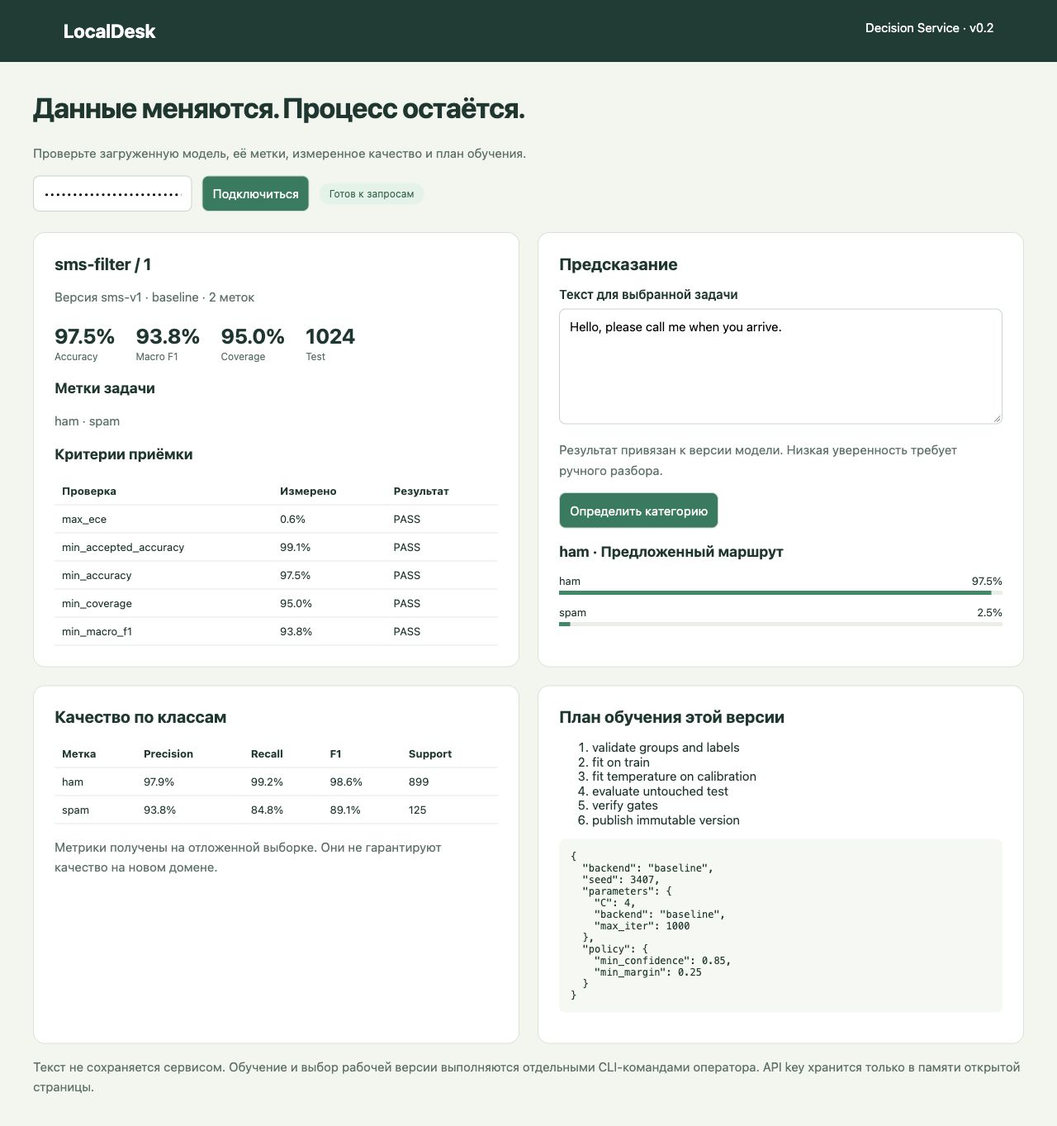
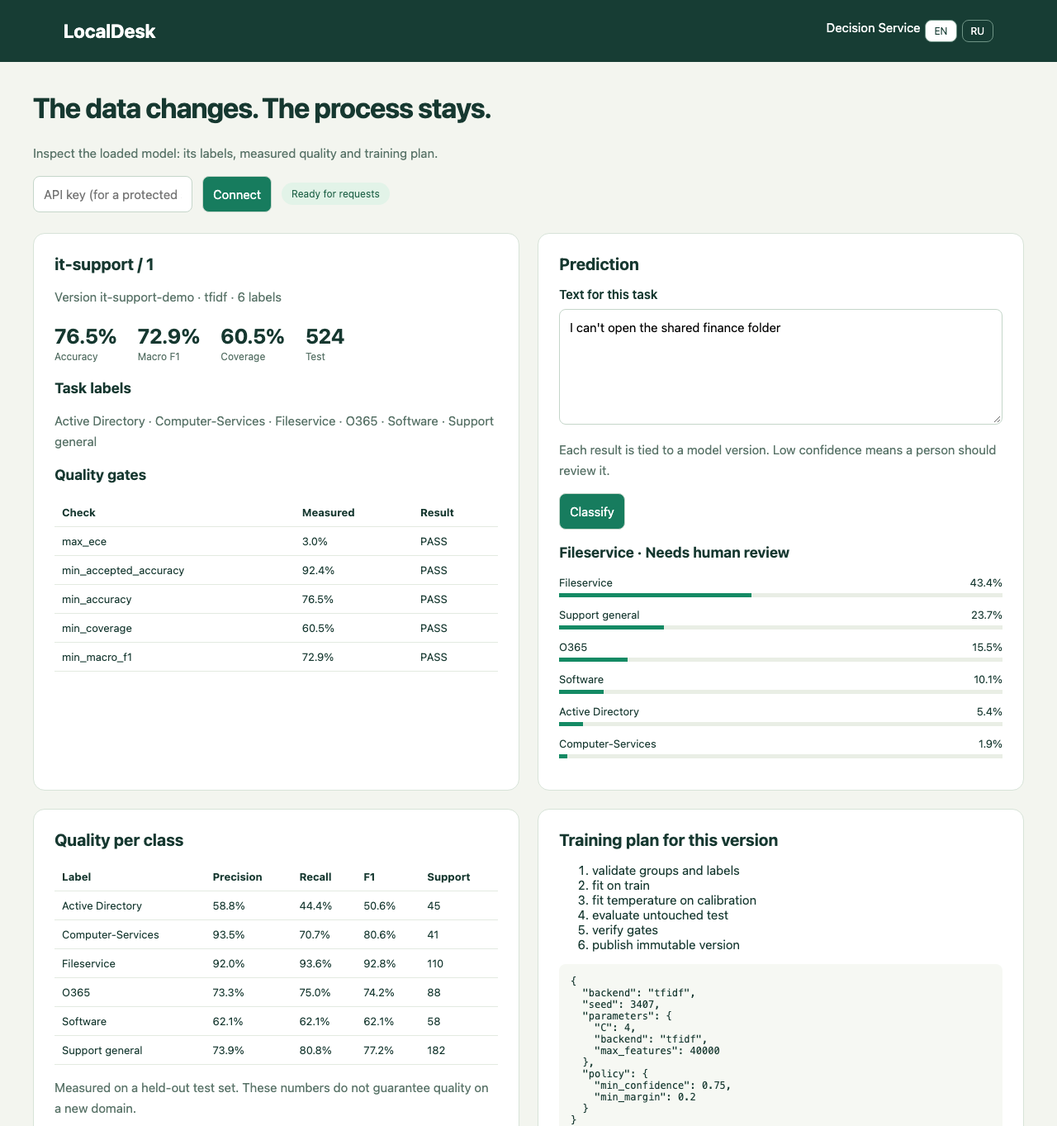
feat: English dashboards with a Russian toggle
Both dashboards default to English and switch to Russian with a button or
?lang=ru; the choice is remembered in the browser, and dynamic content is
re-rendered in the selected language. localdesk serve now ignores query
strings when routing (it returned 404 for /?lang=ru). The README
screenshot shows the English dashboard.

diff --git a/src/localdesk/assets/service.html b/src/localdesk/assets/service.html
@@ -1,7 +1,16 @@
-<!doctype html><html lang="ru"><head><meta charset="utf-8"><meta name="viewport" content="width=device-width,initial-scale=1"><title>LocalDesk · Decision Service</title><style>
-*{box-sizing:border-box}body{margin:0;background:#f3f5ef;color:#163830;font:15px system-ui,sans-serif}header{background:#173d34;color:#fff;padding:24px 6%;display:flex;justify-content:space-between}.brand{font-size:23px;font-weight:700}main{max-width:1250px;margin:35px auto;padding:0 25px}.top{display:flex;gap:12px;align-items:center;flex-wrap:wrap}input,textarea,button{font:inherit;border-radius:8px;border:1px solid #c5d6ca;padding:12px}input{background:#fff}button{background:#177c5e;color:#fff;cursor:pointer}button:disabled{opacity:.5}.grid{display:grid;grid-template-columns:1fr 1fr;gap:22px;margin-top:25px}.card{background:white;border:1px solid #d7e3d8;border-radius:14px;padding:25px}h1{font-size:34px;letter-spacing:-1px}h2{margin-top:0;font-size:20px}textarea{width:100%;height:140px;resize:vertical}.muted{color:#597368;line-height:1.65}.stats{display:flex;gap:25px;flex-wrap:wrap;margin:20px 0}.stat strong{font-size:25px;display:block}.stat span{font-size:12px;color:#597368}.bar{background:#e9eee5;height:5px;margin:5px 0 13px}.bar i{display:block;background:#148a64;height:100%}.row{display:flex;justify-content:space-between;font-size:13px}.error{color:#b0352b;white-space:pre-wrap}pre{white-space:pre-wrap;overflow-wrap:anywhere;font-size:12px;background:#f6f8f3;padding:14px;border-radius:8px}table{border-collapse:collapse;width:100%;font-size:13px}td,th{border-bottom:1px solid #e3eae1;padding:9px;text-align:left}.status{font-size:12px;border-radius:20px;background:#e2f3e8;padding:6px 12px;color:#216349}label{display:block;margin-bottom:9px;font-weight:600}@media(max-width:800px){.grid{grid-template-columns:1fr}h1{font-size:28px}}
-</style></head><body><header><div class="brand">LocalDesk</div><span>Decision Service · v0.2</span></header><main><h1>Данные меняются. Процесс остаётся.</h1><p class="muted">Проверьте загруженную модель, её метки, измеренное качество и план обучения.</p><div class="top"><input id="key" type="password" aria-label="API key" placeholder="API key (для защищённого сервиса)" autocomplete="off"><button id="connect">Подключиться</button><span id="status" class="status">Модель не загружена в интерфейс</span></div><p id="error" class="error" role="alert"></p><div class="grid"><section class="card"><h2 id="task">Модель</h2><div id="identity" class="muted"></div><div id="stats" class="stats"></div><h3>Метки задачи</h3><div id="labels" class="muted"></div><h3>Критерии приёмки</h3><div id="gates"></div></section><section class="card"><h2>Предсказание</h2><label for="text">Текст для выбранной задачи</label><textarea id="text" maxlength="4000" placeholder="Введите сообщение на языке, проверенном вашим датасетом"></textarea><p class="muted">Результат привязан к версии модели. Низкая уверенность требует ручного разбора.</p><button id="predict" disabled>Определить категорию</button><h3 id="choice"></h3><div id="scores"></div></section><section class="card"><h2>Качество по классам</h2><div id="classes"></div><p class="muted">Метрики получены на отложенной выборке. Они не гарантируют качество на новом домене.</p></section><section class="card"><h2>План обучения этой версии</h2><ol id="stages"></ol><pre id="plan">Подключитесь для просмотра плана.</pre></section></div><p class="muted">Текст не сохраняется сервисом. Обучение и выбор рабочей версии выполняются отдельными CLI-командами оператора. API key хранится только в памяти открытой страницы.</p></main><script>
-const $=id=>document.getElementById(id);let token='',loadedVersion=null;async function api(path,options={}){const headers={'X-API-Key':token,...options.headers};const response=await fetch(path,{...options,headers});const value=await response.json();if(!response.ok)throw Error(value.error?.message||'Ошибка API');return value}function put(id,value){$(id).textContent=value}function table(target,headers,rows){const node=document.createElement('table');const head=document.createElement('tr');headers.forEach(value=>{const cell=document.createElement('th');cell.textContent=value;head.append(cell)});node.append(head);rows.forEach(row=>{const tr=document.createElement('tr');row.forEach(value=>{const td=document.createElement('td');td.textContent=String(value);tr.append(td)});node.append(tr)});$(target).replaceChildren(node)}const pct=value=>value===null?'—':(value*100).toFixed(1)+'%';
-$('connect').onclick=async()=>{token=$('key').value;put('error','');try{const [model,report,plan]=await Promise.all([api('/v1/model'),api('/v1/model/report'),api('/v1/model/plan')]);if(report.model_version!==model.model_version||plan.model_version!==model.model_version||report.task_sha256!==model.task_sha256||plan.task_sha256!==model.task_sha256)throw Error('Версия модели изменилась. Подключитесь ещё раз.');loadedVersion=model.model_version;put('task',model.task.id+' / '+model.task.version);put('identity','Версия '+model.model_version+' · '+model.backend+' · '+Object.keys(model.task.labels).length+' меток');put('status','Готов к запросам');put('labels',Object.keys(model.task.labels).join(' · '));$('stats').replaceChildren();[['Accuracy',pct(report.classification.accuracy)],['Macro F1',pct(report.classification.macro_f1)],['Coverage',pct(report.coverage)],['Test',report.count]].forEach(([label,value])=>{const node=document.createElement('div');node.className='stat';const strong=document.createElement('strong');strong.textContent=value;const span=document.createElement('span');span.textContent=label;node.append(strong,span);$('stats').append(node)});table('gates',['Проверка','Измерено','Результат'],Object.entries(model.quality.gates).map(([key,value])=>[key,pct(value.actual),value.passed?'PASS':'FAIL']));table('classes',['Метка','Precision','Recall','F1','Support'],Object.entries(report.classification.per_class).map(([key,v])=>[key,pct(v.precision),pct(v.recall),pct(v.f1),v.support]));$('stages').replaceChildren();plan.stages.forEach(stage=>{const li=document.createElement('li');li.textContent=stage;$('stages').append(li)});put('plan',JSON.stringify({backend:plan.backend,seed:plan.seed,parameters:plan.parameters,policy:plan.policy},null,2));$('predict').disabled=false}catch(exception){put('error',exception.message);$('predict').disabled=true}};
-$('predict').onclick=async()=>{put('error','');try{const value=await api('/v1/predictions',{method:'POST',headers:{'Content-Type':'application/json'},body:JSON.stringify({text:$('text').value})});if(value.model_version!==loadedVersion){$('predict').disabled=true;put('status','Версия изменилась');throw Error('Рабочая модель изменилась. Нажмите Подключиться для обновления метрик.')}put('choice',value.category+' · '+(value.action==='route'?'Предложенный маршрут':'Ручной разбор'));$('scores').replaceChildren();Object.entries(value.probabilities.category).sort((a,b)=>b[1]-a[1]).forEach(([label,score])=>{const row=document.createElement('div');row.className='row';const name=document.createElement('span');name.textContent=label;const percentage=document.createElement('span');percentage.textContent=pct(score);row.append(name,percentage);const bar=document.createElement('div');bar.className='bar';const fill=document.createElement('i');fill.style.width=pct(score);bar.append(fill);$('scores').append(row,bar)})}catch(exception){put('error',exception.message)}};
+<!doctype html><html lang="en"><head><meta charset="utf-8"><meta name="viewport" content="width=device-width,initial-scale=1"><title>LocalDesk · Decision Service</title><style>
+*{box-sizing:border-box}body{margin:0;background:#f3f5ef;color:#163830;font:15px system-ui,sans-serif}header{background:#173d34;color:#fff;padding:24px 6%;display:flex;justify-content:space-between;align-items:center;gap:16px}.lang{display:flex;gap:6px}.lang button{background:transparent;border:1px solid #6f9486;padding:5px 10px;font-size:12px}.lang button[aria-pressed=true]{background:#fff;color:#173d34}.brand{font-size:23px;font-weight:700}main{max-width:1250px;margin:35px auto;padding:0 25px}.top{display:flex;gap:12px;align-items:center;flex-wrap:wrap}input,textarea,button{font:inherit;border-radius:8px;border:1px solid #c5d6ca;padding:12px}input{background:#fff}button{background:#177c5e;color:#fff;cursor:pointer}button:disabled{opacity:.5}.grid{display:grid;grid-template-columns:1fr 1fr;gap:22px;margin-top:25px}.card{background:white;border:1px solid #d7e3d8;border-radius:14px;padding:25px}h1{font-size:34px;letter-spacing:-1px}h2{margin-top:0;font-size:20px}textarea{width:100%;height:140px;resize:vertical}.muted{color:#597368;line-height:1.65}.stats{display:flex;gap:25px;flex-wrap:wrap;margin:20px 0}.stat strong{font-size:25px;display:block}.stat span{font-size:12px;color:#597368}.bar{background:#e9eee5;height:5px;margin:5px 0 13px}.bar i{display:block;background:#148a64;height:100%}.row{display:flex;justify-content:space-between;font-size:13px}.error{color:#b0352b;white-space:pre-wrap}pre{white-space:pre-wrap;overflow-wrap:anywhere;font-size:12px;background:#f6f8f3;padding:14px;border-radius:8px}table{border-collapse:collapse;width:100%;font-size:13px}td,th{border-bottom:1px solid #e3eae1;padding:9px;text-align:left}.status{font-size:12px;border-radius:20px;background:#e2f3e8;padding:6px 12px;color:#216349}label{display:block;margin-bottom:9px;font-weight:600}@media(max-width:800px){.grid{grid-template-columns:1fr}h1{font-size:28px}}
+</style></head><body><header><div class="brand">LocalDesk</div><div class="lang" role="group" aria-label="Language"><span>Decision Service</span><button type="button" data-lang="en">EN</button><button type="button" data-lang="ru">RU</button></div></header><main><h1 data-i18n="headline"></h1><p class="muted" data-i18n="intro"></p><div class="top"><input id="key" type="password" aria-label="API key" data-i18n-placeholder="keyPlaceholder" autocomplete="off"><button id="connect" data-i18n="connect"></button><span id="status" class="status" data-i18n="notLoaded"></span></div><p id="error" class="error" role="alert"></p><div class="grid"><section class="card"><h2 id="task" data-i18n="model"></h2><div id="identity" class="muted"></div><div id="stats" class="stats"></div><h3 data-i18n="labels"></h3><div id="labels" class="muted"></div><h3 data-i18n="gates"></h3><div id="gates"></div></section><section class="card"><h2 data-i18n="prediction"></h2><label for="text" data-i18n="textLabel"></label><textarea id="text" maxlength="4000" data-i18n-placeholder="textPlaceholder"></textarea><p class="muted" data-i18n="predictionNote"></p><button id="predict" disabled data-i18n="predict"></button><h3 id="choice"></h3><div id="scores"></div></section><section class="card"><h2 data-i18n="perClass"></h2><div id="classes"></div><p class="muted" data-i18n="perClassNote"></p></section><section class="card"><h2 data-i18n="plan"></h2><ol id="stages"></ol><pre id="plan" data-i18n="planEmpty"></pre></section></div><p class="muted" data-i18n="footer"></p></main><script>
+const TEXT={en:{headline:'The data changes. The process stays.',intro:'Inspect the loaded model: its labels, measured quality and training plan.',keyPlaceholder:'API key (for a protected service)',connect:'Connect',notLoaded:'Model not loaded in the page',model:'Model',labels:'Task labels',gates:'Quality gates',prediction:'Prediction',textLabel:'Text for this task',textPlaceholder:'Enter a message in a language your dataset covers',predictionNote:'Each result is tied to a model version. Low confidence means a person should review it.',predict:'Classify',perClass:'Quality per class',perClassNote:'Measured on a held-out test set. These numbers do not guarantee quality on a new domain.',plan:'Training plan for this version',planEmpty:'Connect to see the plan.',footer:'The service does not store text. Training and choosing the active version are separate operator CLI commands. The API key is kept only in this page\u2019s memory.',apiError:'API error',versionChanged:'The model version changed. Connect again.',versionLine:'Version {version} \u00b7 {backend} \u00b7 {count} labels',ready:'Ready for requests',check:'Check',measured:'Measured',result:'Result',label:'Label',statusChanged:'Version changed',modelChanged:'The active model changed. Click Connect to refresh the metrics.',route:'Suggested route',review:'Needs human review'},
+ru:{headline:'Данные меняются. Процесс остаётся.',intro:'Проверьте загруженную модель, её метки, измеренное качество и план обучения.',keyPlaceholder:'API key (для защищённого сервиса)',connect:'Подключиться',notLoaded:'Модель не загружена в интерфейс',model:'Модель',labels:'Метки задачи',gates:'Критерии приёмки',prediction:'Предсказание',textLabel:'Текст для выбранной задачи',textPlaceholder:'Введите сообщение на языке, проверенном вашим датасетом',predictionNote:'Результат привязан к версии модели. Низкая уверенность требует ручного разбора.',predict:'Определить категорию',perClass:'Качество по классам',perClassNote:'Метрики получены на отложенной выборке. Они не гарантируют качество на новом домене.',plan:'План обучения этой версии',planEmpty:'Подключитесь для просмотра плана.',footer:'Текст не сохраняется сервисом. Обучение и выбор рабочей версии выполняются отдельными CLI-командами оператора. API key хранится только в памяти открытой страницы.',apiError:'Ошибка API',versionChanged:'Версия модели изменилась. Подключитесь ещё раз.',versionLine:'Версия {version} \u00b7 {backend} \u00b7 {count} меток',ready:'Готов к запросам',check:'Проверка',measured:'Измерено',result:'Результат',label:'Метка',statusChanged:'Версия изменилась',modelChanged:'Рабочая модель изменилась. Нажмите Подключиться для обновления метрик.',route:'Предложенный маршрут',review:'Ручной разбор'}};
+let language='en';const state={status:'notLoaded',model:null,report:null,plan:null,prediction:null};function t(key,values={}){return (TEXT[language][key]||TEXT.en[key]).replace(/\{(\w+)\}/g,(_,name)=>String(values[name]))}
+const $=id=>document.getElementById(id);let token='';async function api(path,options={}){const headers={'X-API-Key':token,...options.headers};const response=await fetch(path,{...options,headers});const value=await response.json();if(!response.ok)throw Error(value.error?.message||t('apiError'));return value}function put(id,value){$(id).textContent=value}function table(target,headers,rows){const node=document.createElement('table');const head=document.createElement('tr');headers.forEach(value=>{const cell=document.createElement('th');cell.textContent=value;head.append(cell)});node.append(head);rows.forEach(row=>{const tr=document.createElement('tr');row.forEach(value=>{const td=document.createElement('td');td.textContent=String(value);tr.append(td)});node.append(tr)});$(target).replaceChildren(node)}const pct=value=>value===null?'—':(value*100).toFixed(1)+'%';
+function renderModel(){const {model,report,plan}=state;if(!model)return;put('task',model.task.id+' / '+model.task.version);put('identity',t('versionLine',{version:model.model_version,backend:model.backend,count:Object.keys(model.task.labels).length}));put('labels',Object.keys(model.task.labels).join(' · '));$('stats').replaceChildren();[['Accuracy',pct(report.classification.accuracy)],['Macro F1',pct(report.classification.macro_f1)],['Coverage',pct(report.coverage)],['Test',report.count]].forEach(([label,value])=>{const node=document.createElement('div');node.className='stat';const strong=document.createElement('strong');strong.textContent=value;const span=document.createElement('span');span.textContent=label;node.append(strong,span);$('stats').append(node)});table('gates',[t('check'),t('measured'),t('result')],Object.entries(model.quality.gates).map(([key,value])=>[key,pct(value.actual),value.passed?'PASS':'FAIL']));table('classes',[t('label'),'Precision','Recall','F1','Support'],Object.entries(report.classification.per_class).map(([key,v])=>[key,pct(v.precision),pct(v.recall),pct(v.f1),v.support]));$('stages').replaceChildren();plan.stages.forEach(stage=>{const li=document.createElement('li');li.textContent=stage;$('stages').append(li)});put('plan',JSON.stringify({backend:plan.backend,seed:plan.seed,parameters:plan.parameters,policy:plan.policy},null,2))}
+function renderPrediction(){const value=state.prediction;if(!value)return;put('choice',value.category+' · '+(value.action==='route'?t('route'):t('review')));$('scores').replaceChildren();Object.entries(value.probabilities.category).sort((a,b)=>b[1]-a[1]).forEach(([label,score])=>{const row=document.createElement('div');row.className='row';const name=document.createElement('span');name.textContent=label;const percentage=document.createElement('span');percentage.textContent=pct(score);row.append(name,percentage);const bar=document.createElement('div');bar.className='bar';const fill=document.createElement('i');fill.style.width=pct(score);bar.append(fill);$('scores').append(row,bar)})}
+function render(){document.querySelectorAll('[data-i18n]').forEach(node=>{node.textContent=t(node.dataset.i18n)});document.querySelectorAll('[data-i18n-placeholder]').forEach(node=>{node.placeholder=t(node.dataset.i18nPlaceholder)});put('status',t(state.status));renderModel();renderPrediction()}
+function setLanguage(next){language=TEXT[next]?next:'en';document.documentElement.lang=language;document.querySelectorAll('[data-lang]').forEach(button=>button.setAttribute('aria-pressed',String(button.dataset.lang===language)));render();try{localStorage.setItem('localdesk-lang',language)}catch(_){}}
+function initialLanguage(){const query=new URLSearchParams(location.search).get('lang');if(query)return query;try{return localStorage.getItem('localdesk-lang')||'en'}catch(_){return 'en'}}
+document.querySelectorAll('[data-lang]').forEach(button=>button.addEventListener('click',()=>setLanguage(button.dataset.lang)));setLanguage(initialLanguage());
+$('connect').onclick=async()=>{token=$('key').value;put('error','');try{const [model,report,plan]=await Promise.all([api('/v1/model'),api('/v1/model/report'),api('/v1/model/plan')]);if(report.model_version!==model.model_version||plan.model_version!==model.model_version||report.task_sha256!==model.task_sha256||plan.task_sha256!==model.task_sha256)throw Error(t('versionChanged'));Object.assign(state,{model,report,plan,prediction:null,status:'ready'});$('choice').textContent='';$('scores').replaceChildren();render();$('predict').disabled=false}catch(exception){put('error',exception.message);$('predict').disabled=true}};
+$('predict').onclick=async()=>{put('error','');try{const value=await api('/v1/predictions',{method:'POST',headers:{'Content-Type':'application/json'},body:JSON.stringify({text:$('text').value})});if(value.model_version!==state.model.model_version){$('predict').disabled=true;state.status='statusChanged';put('status',t('statusChanged'));throw Error(t('modelChanged'))}state.prediction=value;renderPrediction()}catch(exception){put('error',exception.message)}};
 </script></body></html>

diff --git a/src/localdesk/assets/index.html b/src/localdesk/assets/index.html
@@ -1,13 +1,13 @@
 <!doctype html>
-<html lang="ru">
+<html lang="en">
 <head>
 <meta charset="utf-8"><meta name="viewport" content="width=device-width, initial-scale=1">
-<title>LocalDesk — обращения находят свою команду</title>
+<title>LocalDesk — every ticket finds its team</title>
 <style>
 :root{color-scheme:light;--ink:#142f30;--muted:#536b68;--green:#087d66;--line:#d7e0db;--paper:#f4f5ed}
 *{box-sizing:border-box}body{margin:0;background:var(--paper);color:var(--ink);font-family:system-ui,-apple-system,BlinkMacSystemFont,"Segoe UI",sans-serif}
 header{max-width:1200px;margin:auto;padding:28px 32px;display:flex;align-items:center;justify-content:space-between;border-bottom:1px solid var(--line)}
-.brand{font-size:23px;letter-spacing:-1px;font-weight:800}.brand span{color:var(--green)}.badge{font-size:12px;letter-spacing:.06em;color:var(--green);background:#e1ece3;padding:9px 13px;border-radius:30px}
+.brand{font-size:23px;letter-spacing:-1px;font-weight:800}.top{display:flex;align-items:center;gap:10px}.lang{background:transparent;border:1px solid var(--line);border-radius:7px;padding:6px 9px;font:inherit;font-size:11px;color:var(--muted);cursor:pointer}.lang[aria-pressed=true]{background:var(--green);border-color:var(--green);color:#fff}.brand span{color:var(--green)}.badge{font-size:12px;letter-spacing:.06em;color:var(--green);background:#e1ece3;padding:9px 13px;border-radius:30px}
 main{max-width:1200px;margin:auto;padding:65px 32px;display:grid;grid-template-columns:.95fr 1.05fr;gap:65px}.eyebrow{font-size:12px;text-transform:uppercase;letter-spacing:.16em;color:var(--green);font-weight:700}
 h1{font-size:clamp(36px,4.5vw,58px);line-height:1.08;letter-spacing:-2.5px;margin:22px 0 24px;font-weight:700}h1 em{font-style:normal;color:var(--green)}.intro{font-size:17px;line-height:1.7;max-width:430px;color:var(--muted)}
 .facts{margin:38px 0;display:grid;grid-template-columns:repeat(3,1fr);gap:12px;border-top:1px solid var(--line);border-bottom:1px solid var(--line);padding:24px 0}.facts strong{display:block;font-size:27px;font-weight:650}.facts span{font-size:12px;color:var(--muted)}
@@ -20,31 +20,39 @@ label{display:block;font-size:13px;font-weight:600;margin-bottom:10px}textarea{r
 </style>
 </head>
 <body>
-<header><div class="brand">Local<span>Desk</span><span aria-hidden="true"> ·</span></div><div class="badge">НА ВАШЕМ КОМПЬЮТЕРЕ</div></header>
+<header><div class="brand">Local<span>Desk</span><span aria-hidden="true"> ·</span></div><div class="top"><div class="badge" data-i18n="badge"></div><button type="button" class="lang" data-lang="en">EN</button><button type="button" class="lang" data-lang="ru">RU</button></div></header>
 <main>
-<section><div class="eyebrow">Помощник IT-поддержки</div><h1>Обращения находят <em>свою команду.</em></h1>
-<p class="intro">LocalDesk предлагает категорию заявки. Если уверенности мало, обращение остаётся на ручной разбор.</p>
-<div class="facts"><div><strong>6</strong><span>категорий сервиса</span></div><div><strong>Локально</strong><span>без внешнего API</span></div><div><strong>Вы</strong><span>принимаете решение</span></div></div>
-<div class="steps"><span class="number">1</span><span>Опишите проблему: что произошло и с каким сервисом.</span></div>
-<div class="steps"><span class="number">2</span><span>Посмотрите категорию и оценки остальных вариантов.</span></div>
-<div class="steps"><span class="number">3</span><span>Подтвердите маршрут или разберите заявку вручную.</span></div>
+<section><div class="eyebrow" data-i18n="eyebrow"></div><h1><span data-i18n="h1a"></span> <em data-i18n="h1b"></em></h1>
+<p class="intro" data-i18n="intro"></p>
+<div class="facts"><div><strong>6</strong><span data-i18n="fact1"></span></div><div><strong data-i18n="fact2a"></strong><span data-i18n="fact2"></span></div><div><strong data-i18n="fact3a"></strong><span data-i18n="fact3"></span></div></div>
+<div class="steps"><span class="number">1</span><span data-i18n="step1"></span></div>
+<div class="steps"><span class="number">2</span><span data-i18n="step2"></span></div>
+<div class="steps"><span class="number">3</span><span data-i18n="step3"></span></div>
 </section>
-<section class="card" aria-label="Классификация обращения">
-<div class="card-head"><h2>Новое обращение</h2><span class="live" id="backend">Локальная модель</span></div>
-<form id="form"><label for="ticket">Текст заявки</label><textarea id="ticket" maxlength="4000" required placeholder="Например: Please grant access to the shared project folder."></textarea>
-<p class="hint">Качество проверено на публичном корпусе IT-заявок. Для русского языка отдельной проверки пока нет.</p>
-<div class="examples" aria-label="Примеры ввода"><button type="button" class="example" data-text="File share access request">Общая папка</button><button type="button" class="example" data-text="Please install software on my computer">Установка программы</button><button type="button" class="example" data-text="My password is not working">Проблема с входом</button></div>
-<button class="submit" id="submit" type="submit"><span>Определить категорию</span><span aria-hidden="true">↗</span></button></form>
+<section class="card" data-i18n-label="cardLabel">
+<div class="card-head"><h2 data-i18n="newTicket"></h2><span class="live" id="backend" data-i18n="localModel"></span></div>
+<form id="form"><label for="ticket" data-i18n="ticketLabel"></label><textarea id="ticket" maxlength="4000" required data-i18n-placeholder="ticketPlaceholder"></textarea>
+<p class="hint" data-i18n="hint"></p>
+<div class="examples" data-i18n-label="examples"><button type="button" class="example" data-text="File share access request" data-i18n="ex1"></button><button type="button" class="example" data-text="Please install software on my computer" data-i18n="ex2"></button><button type="button" class="example" data-text="My password is not working" data-i18n="ex3"></button></div>
+<button class="submit" id="submit" type="submit"><span data-i18n="submit"></span><span aria-hidden="true">↗</span></button></form>
 <div id="error" class="error" role="alert"></div>
 <div id="result" aria-live="polite" hidden><div class="status" id="status"></div><h3 class="decision" id="category"></h3><p class="reason" id="reason"></p><div id="scores"></div></div>
-<p class="footnote">Тексты не сохраняются сервером. Оценки модели могут ошибаться. Заявка никуда не отправляется автоматически.</p>
+<p class="footnote" data-i18n="footnote"></p>
 </section>
 </main>
-<footer class="footer"><span>LocalDesk / открытый проект принятия решений</span><span>Данные: <a href="https://zenodo.org/records/7648117" target="_blank" rel="noopener noreferrer">IT Support Tickets · CC BY 4.0</a></span></footer>
+<footer class="footer"><span data-i18n="footer"></span><span><span data-i18n="data"></span> <a href="https://zenodo.org/records/7648117" target="_blank" rel="noopener noreferrer">IT Support Tickets · CC BY 4.0</a></span></footer>
 <script nonce="__NONCE__">
+const TEXT={en:{title:'LocalDesk \u2014 every ticket finds its team',badge:'ON YOUR COMPUTER',eyebrow:'IT support assistant',h1a:'Every ticket finds',h1b:'its team.',intro:'LocalDesk suggests a category for each request. When it is not confident enough, the ticket stays with a person.',fact1:'service categories',fact2a:'Local',fact2:'no external API',fact3a:'You',fact3:'make the decision',step1:'Describe the problem: what happened and which service is affected.',step2:'Check the category and the scores of the other options.',step3:'Confirm the route or handle the ticket manually.',cardLabel:'Ticket classification',newTicket:'New ticket',localModel:'Local model',ticketLabel:'Ticket text',ticketPlaceholder:'For example: Please grant access to the shared project folder.',hint:'Quality was measured on a public corpus of IT tickets. Other languages have not been evaluated yet.',examples:'Example inputs',ex1:'Shared folder',ex2:'Install software',ex3:'Sign-in problem',submit:'Classify',footnote:'The server does not store texts. Model scores can be wrong. Nothing is sent anywhere automatically.',footer:'LocalDesk / open-source decision service',data:'Data:',cpu:'CPU model',offline:'No connection',failed:'The request could not be processed',route:'Suggested route',review:'Needs human review',routeReason:'Check the category before handing the ticket to a specialist.',reviewReason:'The model is not sure about the route. Add details or choose a team manually.'},
+ru:{title:'LocalDesk \u2014 обращения находят свою команду',badge:'НА ВАШЕМ КОМПЬЮТЕРЕ',eyebrow:'Помощник IT-поддержки',h1a:'Обращения находят',h1b:'свою команду.',intro:'LocalDesk предлагает категорию заявки. Если уверенности мало, обращение остаётся на ручной разбор.',fact1:'категорий сервиса',fact2a:'Локально',fact2:'без внешнего API',fact3a:'Вы',fact3:'принимаете решение',step1:'Опишите проблему: что произошло и с каким сервисом.',step2:'Посмотрите категорию и оценки остальных вариантов.',step3:'Подтвердите маршрут или разберите заявку вручную.',cardLabel:'Классификация обращения',newTicket:'Новое обращение',localModel:'Локальная модель',ticketLabel:'Текст заявки',ticketPlaceholder:'Например: Please grant access to the shared project folder.',hint:'Качество проверено на публичном корпусе IT-заявок. Для русского языка отдельной проверки пока нет.',examples:'Примеры ввода',ex1:'Общая папка',ex2:'Установка программы',ex3:'Проблема с входом',submit:'Определить категорию',footnote:'Тексты не сохраняются сервером. Оценки модели могут ошибаться. Заявка никуда не отправляется автоматически.',footer:'LocalDesk / открытый проект принятия решений',data:'Данные:',cpu:'CPU-модель',offline:'Нет соединения',failed:'Не удалось обработать заявку',route:'Предложенный маршрут',review:'Нужен ручной разбор',routeReason:'Проверьте категорию перед передачей специалисту.',reviewReason:'Модель не уверена в маршруте. Уточните детали или выберите команду вручную.'}};
+let language='en',backendName=null,lastResult=null;const t=key=>TEXT[language][key]||TEXT.en[key];
 const form=document.getElementById('form'),ticket=document.getElementById('ticket'),submit=document.getElementById('submit'),error=document.getElementById('error'),result=document.getElementById('result');
+function renderBackend(){document.getElementById('backend').textContent=backendName===null?t('localModel'):backendName===false?t('offline'):backendName==='unsloth'?'Qwen / Unsloth':t('cpu')}
+function renderResult(){if(!lastResult)return;const data=lastResult;document.getElementById('status').textContent=data.action==='route'?t('route'):t('review');document.getElementById('category').textContent=data.category;document.getElementById('reason').textContent=data.action==='route'?t('routeReason'):t('reviewReason')}
+function setLanguage(next){language=TEXT[next]?next:'en';document.documentElement.lang=language;document.title=t('title');document.querySelectorAll('[data-i18n]').forEach(node=>{node.textContent=t(node.dataset.i18n)});document.querySelectorAll('[data-i18n-placeholder]').forEach(node=>{node.placeholder=t(node.dataset.i18nPlaceholder)});document.querySelectorAll('[data-i18n-label]').forEach(node=>{node.setAttribute('aria-label',t(node.dataset.i18nLabel))});document.querySelectorAll('[data-lang]').forEach(button=>button.setAttribute('aria-pressed',String(button.dataset.lang===language)));renderBackend();renderResult();try{localStorage.setItem('localdesk-lang',language)}catch(_){}}
+function initialLanguage(){const query=new URLSearchParams(location.search).get('lang');if(query)return query;try{return localStorage.getItem('localdesk-lang')||'en'}catch(_){return 'en'}}
+document.querySelectorAll('[data-lang]').forEach(button=>button.addEventListener('click',()=>setLanguage(button.dataset.lang)));setLanguage(initialLanguage());
 document.querySelectorAll('.example').forEach(button=>button.addEventListener('click',()=>{ticket.value=button.dataset.text;ticket.focus()}));
-fetch('/api/info').then(response=>response.json()).then(info=>{document.getElementById('backend').textContent=info.backend==='unsloth'?'Qwen / Unsloth':'CPU-модель'}).catch(()=>{document.getElementById('backend').textContent='Нет соединения'});
-form.addEventListener('submit',async event=>{event.preventDefault();submit.disabled=true;error.textContent='';result.hidden=true;try{const response=await fetch('/api/decide',{method:'POST',headers:{'Content-Type':'application/json'},body:JSON.stringify({text:ticket.value})});const data=await response.json();if(!response.ok)throw new Error(data.error||'Не удалось обработать заявку');document.getElementById('status').textContent=data.action==='route'?'Предложенный маршрут':'Нужен ручной разбор';document.getElementById('category').textContent=data.category;document.getElementById('reason').textContent=data.action==='route'?'Проверьте категорию перед передачей специалисту.':'Модель не уверена в маршруте. Уточните детали или выберите команду вручную.';const scores=document.getElementById('scores');scores.replaceChildren();Object.entries(data.probabilities.category).sort((a,b)=>b[1]-a[1]).forEach(([label,score])=>{const row=document.createElement('div');row.className='row';const name=document.createElement('span');name.textContent=label;const value=document.createElement('span');value.textContent=(score*100).toFixed(1)+'%';const bar=document.createElement('div');bar.className='bar';const fill=document.createElement('div');fill.className='fill';fill.style.width=(score*100)+'%';bar.append(fill);row.append(name,value,bar);scores.append(row)});result.hidden=false}catch(exception){error.textContent=exception.message}finally{submit.disabled=false}});
+fetch('/api/info').then(response=>response.json()).then(info=>{backendName=info.backend;renderBackend()}).catch(()=>{backendName=false;renderBackend()});
+form.addEventListener('submit',async event=>{event.preventDefault();submit.disabled=true;error.textContent='';result.hidden=true;try{const response=await fetch('/api/decide',{method:'POST',headers:{'Content-Type':'application/json'},body:JSON.stringify({text:ticket.value})});const data=await response.json();if(!response.ok)throw new Error(data.error||t('failed'));lastResult=data;renderResult();const scores=document.getElementById('scores');scores.replaceChildren();Object.entries(data.probabilities.category).sort((a,b)=>b[1]-a[1]).forEach(([label,score])=>{const row=document.createElement('div');row.className='row';const name=document.createElement('span');name.textContent=label;const value=document.createElement('span');value.textContent=(score*100).toFixed(1)+'%';const bar=document.createElement('div');bar.className='bar';const fill=document.createElement('div');fill.className='fill';fill.style.width=(score*100)+'%';bar.append(fill);row.append(name,value,bar);scores.append(row)});result.hidden=false}catch(exception){error.textContent=exception.message}finally{submit.disabled=false}});
 </script>
 </body></html>

diff --git a/src/localdesk/server.py b/src/localdesk/server.py
@@ -4,6 +4,7 @@ import json
 import secrets
 import threading
 from http.server import BaseHTTPRequestHandler, ThreadingHTTPServer
+from urllib.parse import urlsplit
 
 from localdesk.core import Backend, decide
 
@@ -45,7 +46,8 @@ def make_server(backend: Backend, *, port: int = 8765) -> ThreadingHTTPServer:
         def do_GET(self):
             if not self._valid_host():
                 return self._json(403, {"error": "invalid local host"})
-            if self.path == "/":
+            path = urlsplit(self.path).path  # Ignore query strings such as ?lang=ru.
+            if path == "/":
                 from importlib.resources import files
 
                 nonce = secrets.token_urlsafe(18)
@@ -56,7 +58,7 @@ def make_server(backend: Backend, *, port: int = 8765) -> ThreadingHTTPServer:
                     "text/html; charset=utf-8",
                     nonce,
                 )
-            if self.path == "/api/info":
+            if path == "/api/info":
                 return self._json(
                     200, {"backend": backend.name, "probability_kind": backend.probability_kind}
                 )

diff --git a/tests/test_server.py b/tests/test_server.py
@@ -28,8 +28,15 @@ def request(url, body):
 
 def test_serves_local_ui(server_url):
     with urllib.request.urlopen(server_url) as response:
-        assert b"LocalDesk" in response.read()
+        page = response.read().decode("utf-8")
+        assert "LocalDesk" in page and '<html lang="en">' in page
+        assert "Every ticket finds" in page and "Обращения находят" in page
         assert "default-src" in response.headers["Content-Security-Policy"]
+
+
+def test_dashboard_accepts_language_query(server_url):
+    with urllib.request.urlopen(server_url + "/?lang=ru") as response:
+        assert response.status == 200 and b"LocalDesk" in response.read()
 
 
 def test_json_prediction(server_url):

diff --git a/tests/test_api.py b/tests/test_api.py
@@ -116,6 +116,9 @@ def test_dashboard_does_not_depend_on_system_text_encoding(client, monkeypatch):
     monkeypatch.setattr(Path, "read_text", windows_read)
     response = client.get("/")
     assert response.status_code == 200
+    assert '<html lang="en">' in response.text
+    assert "The data changes. The process stays." in response.text
+    # The Russian translation ships in the same page and must survive decoding.
     assert "Данные меняются" in response.text
 
 
